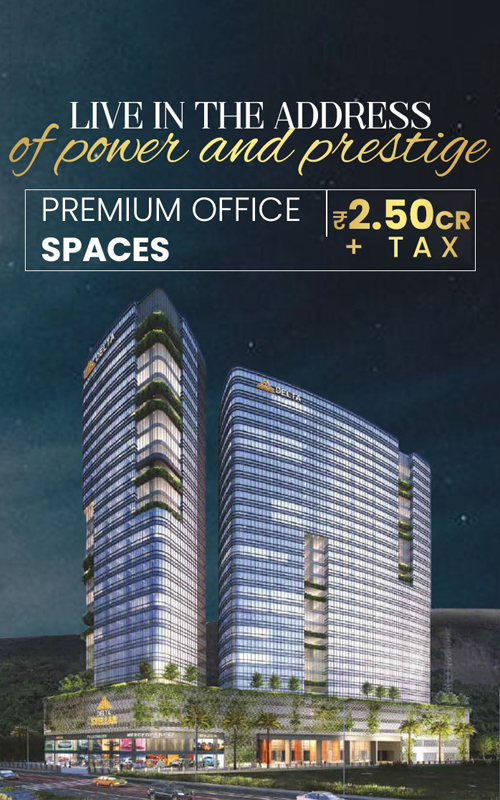
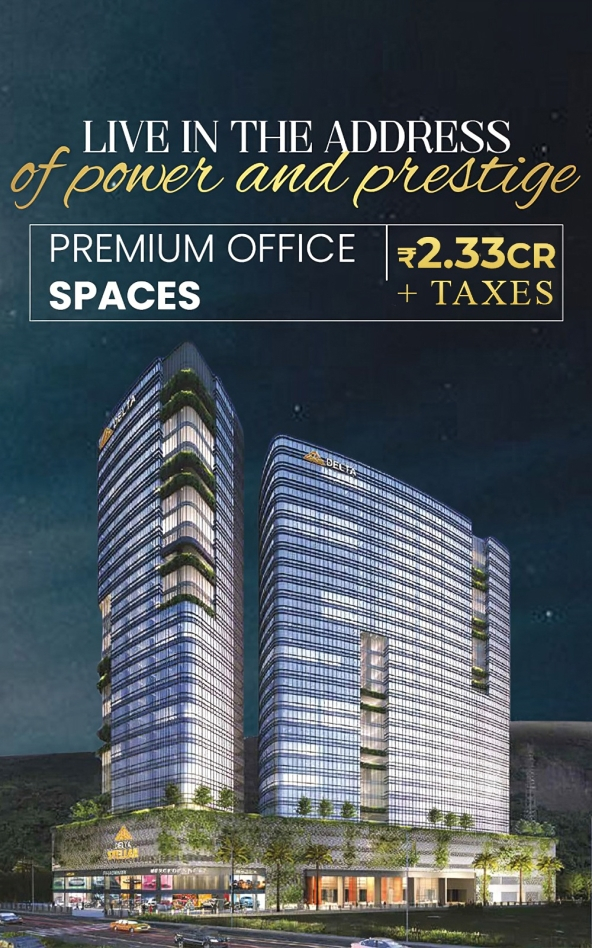
Price Changed

diff --git a/index.html b/index.html
@@ -262,7 +262,7 @@
                 quality, innovation, and timely delivery, the project promises
                 high ROI, strong appreciation, and exceptional amenities that
                 enhance both aesthetics and lifestyle. With offices starting
-                from ₹2.50 Cr and MahaRERA registration P51700049320, Delta
+                from ₹2.33 Cr and MahaRERA registration P51700049320, Delta
                 Stellar stands as a trusted business landmark in Navi Mumbai.
               </p>
               <div class="highlights-grid">
@@ -421,42 +421,16 @@
                         <div class="space-icon">
                           <i class="fas fa-store"></i>
                         </div>
-                        <span>Ground Floor Shops</span>
+                        <span>Office T2</span>
                       </div>
                     </td>
                     <td>
                       <div class="area-range">
-                        940
+                        936
                         <span class="area-unit">Sq.Ft.</span>
                       </div>
                     </td>
-                    <td><h2 class="text-primary-theme">₹ 2.50 Cr*</h2></td>
-                    <td>
-                      <button
-                        class="btn btn-inquire"
-                        data-bs-toggle="modal"
-                        data-bs-target="#popupModal"
-                        data-modal-title="Inquire Now">
-                        <i class="fas fa-phone me-2"></i>Inquire Now
-                      </button>
-                    </td>
-                  </tr>
-                  <tr class="ground-floor">
-                    <td>
-                      <div class="space-type">
-                        <div class="space-icon">
-                          <i class="fas fa-store"></i>
-                        </div>
-                        <span>First Floor Shops </span>
-                      </div>
-                    </td>
-                    <td>
-                      <div class="area-range">
-                        On Request
-                        <span class="area-unit">Sq.Ft.</span>
-                      </div>
-                    </td>
-                    <td><h2 class="text-primary-theme">₹ On Request</h2></td>
+                    <td><h2 class="text-primary-theme">₹ 2.33 Cr*</h2></td>
                     <td>
                       <button
                         class="btn btn-inquire"
@@ -499,7 +473,33 @@
                         <div class="space-icon">
                           <i class="fas fa-store"></i>
                         </div>
-                        <span>Office T2</span>
+                        <span>First Floor Shops </span>
+                      </div>
+                    </td>
+                    <td>
+                      <div class="area-range">
+                        On Request
+                        <span class="area-unit">Sq.Ft.</span>
+                      </div>
+                    </td>
+                    <td><h2 class="text-primary-theme">₹ On Request</h2></td>
+                    <td>
+                      <button
+                        class="btn btn-inquire"
+                        data-bs-toggle="modal"
+                        data-bs-target="#popupModal"
+                        data-modal-title="Inquire Now">
+                        <i class="fas fa-phone me-2"></i>Inquire Now
+                      </button>
+                    </td>
+                  </tr>
+                  <tr class="ground-floor">
+                    <td>
+                      <div class="space-type">
+                        <div class="space-icon">
+                          <i class="fas fa-store"></i>
+                        </div>
+                        <span>Ground Floor Shops</span>
                       </div>
                     </td>
                     <td>
